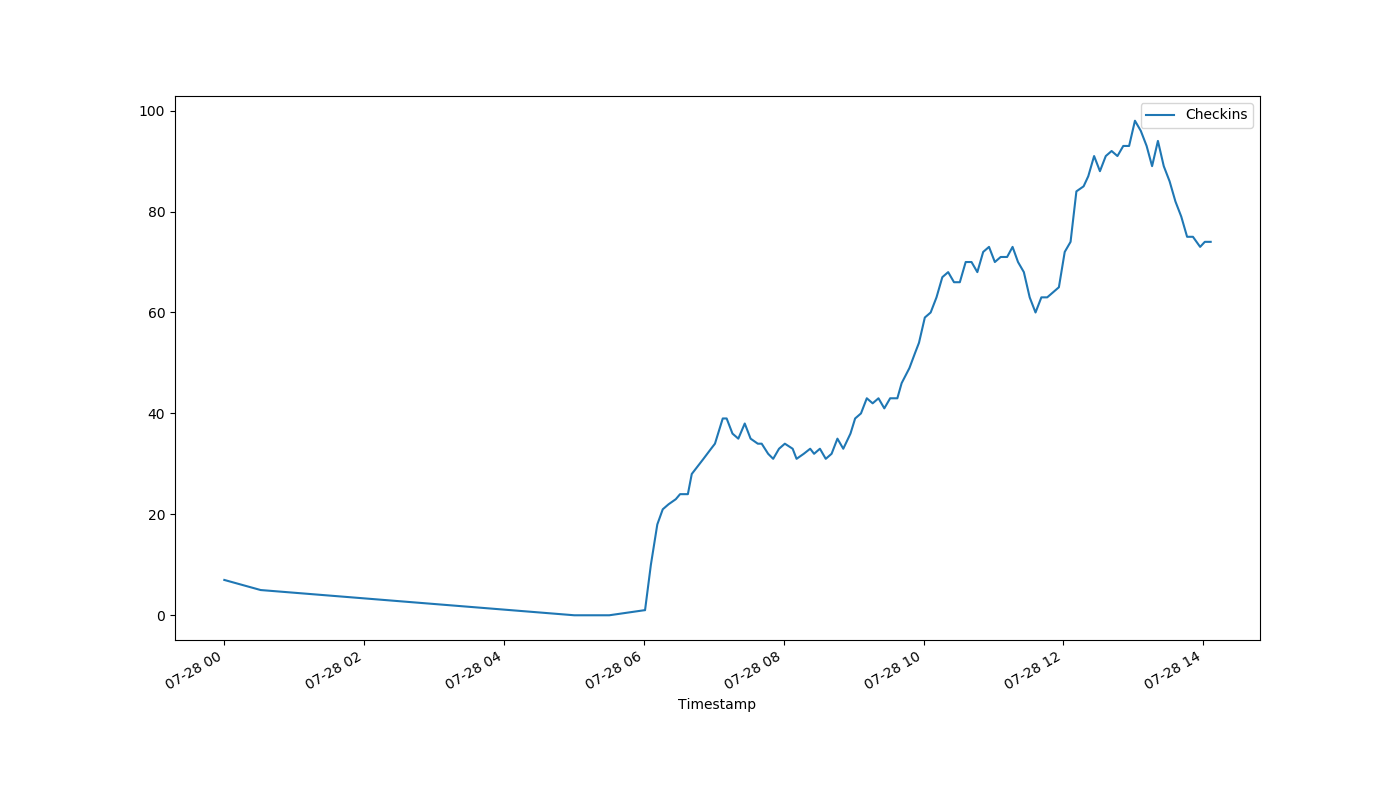
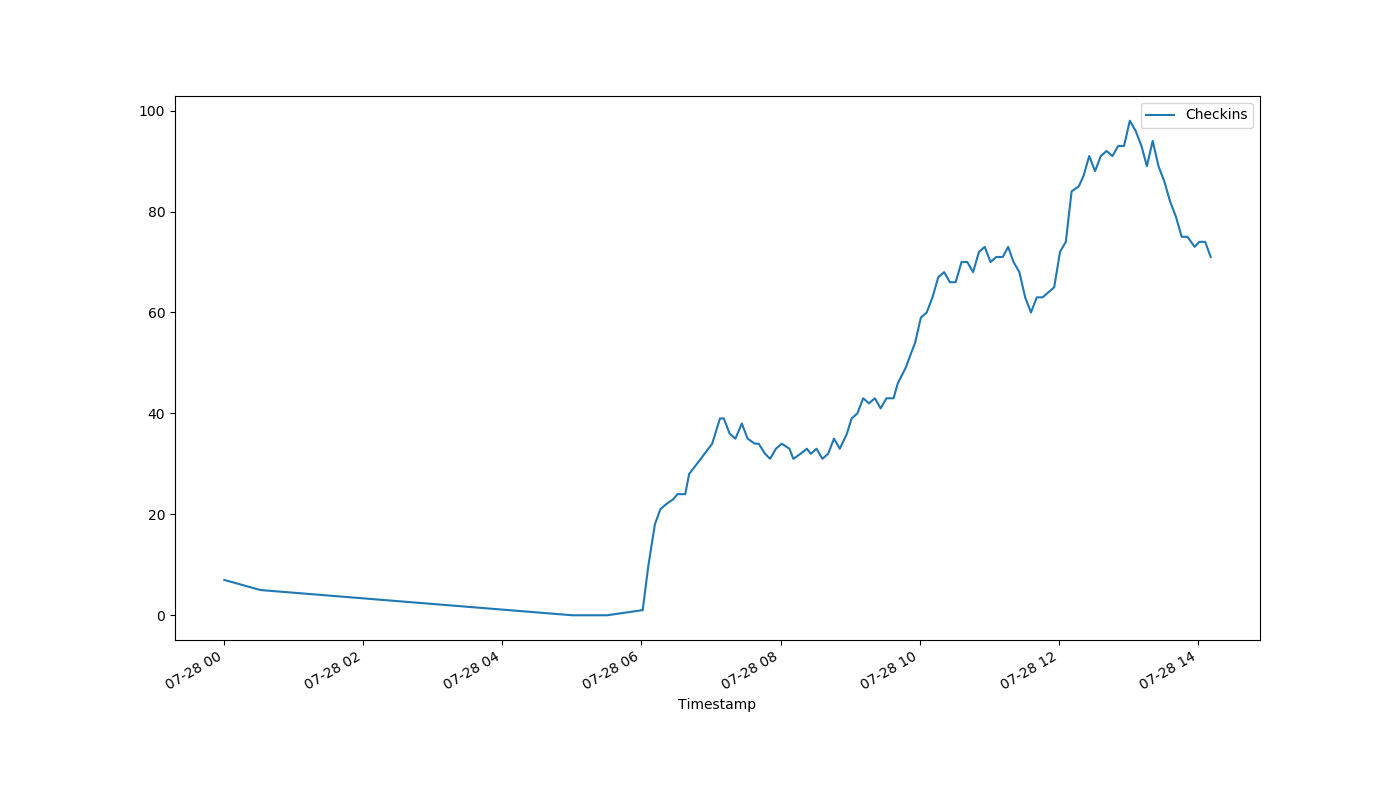
auto-Jul-28-14:12:30

diff --git a/index.html b/index.html
@@ -1,1 +1,1 @@
-<!DOCTYPE html><html><head><meta http-equiv="refresh" content="30"><link rel='stylesheet' href='holmcurrent.css'></head><body><p id='count'>74</p><div id='graph-wrap'><img id='graph' src='holmgraph-Jul-28.png'></div><p id='updated'>Last updated 14:07:04 / 14:06:15</p></body></html>
+<!DOCTYPE html><html><head><meta http-equiv="refresh" content="30"><link rel='stylesheet' href='holmcurrent.css'></head><body><p id='count'>71</p><div id='graph-wrap'><img id='graph' src='holmgraph-Jul-28.png'></div><p id='updated'>Last updated 14:11:04 / 14:11:02</p></body></html>
